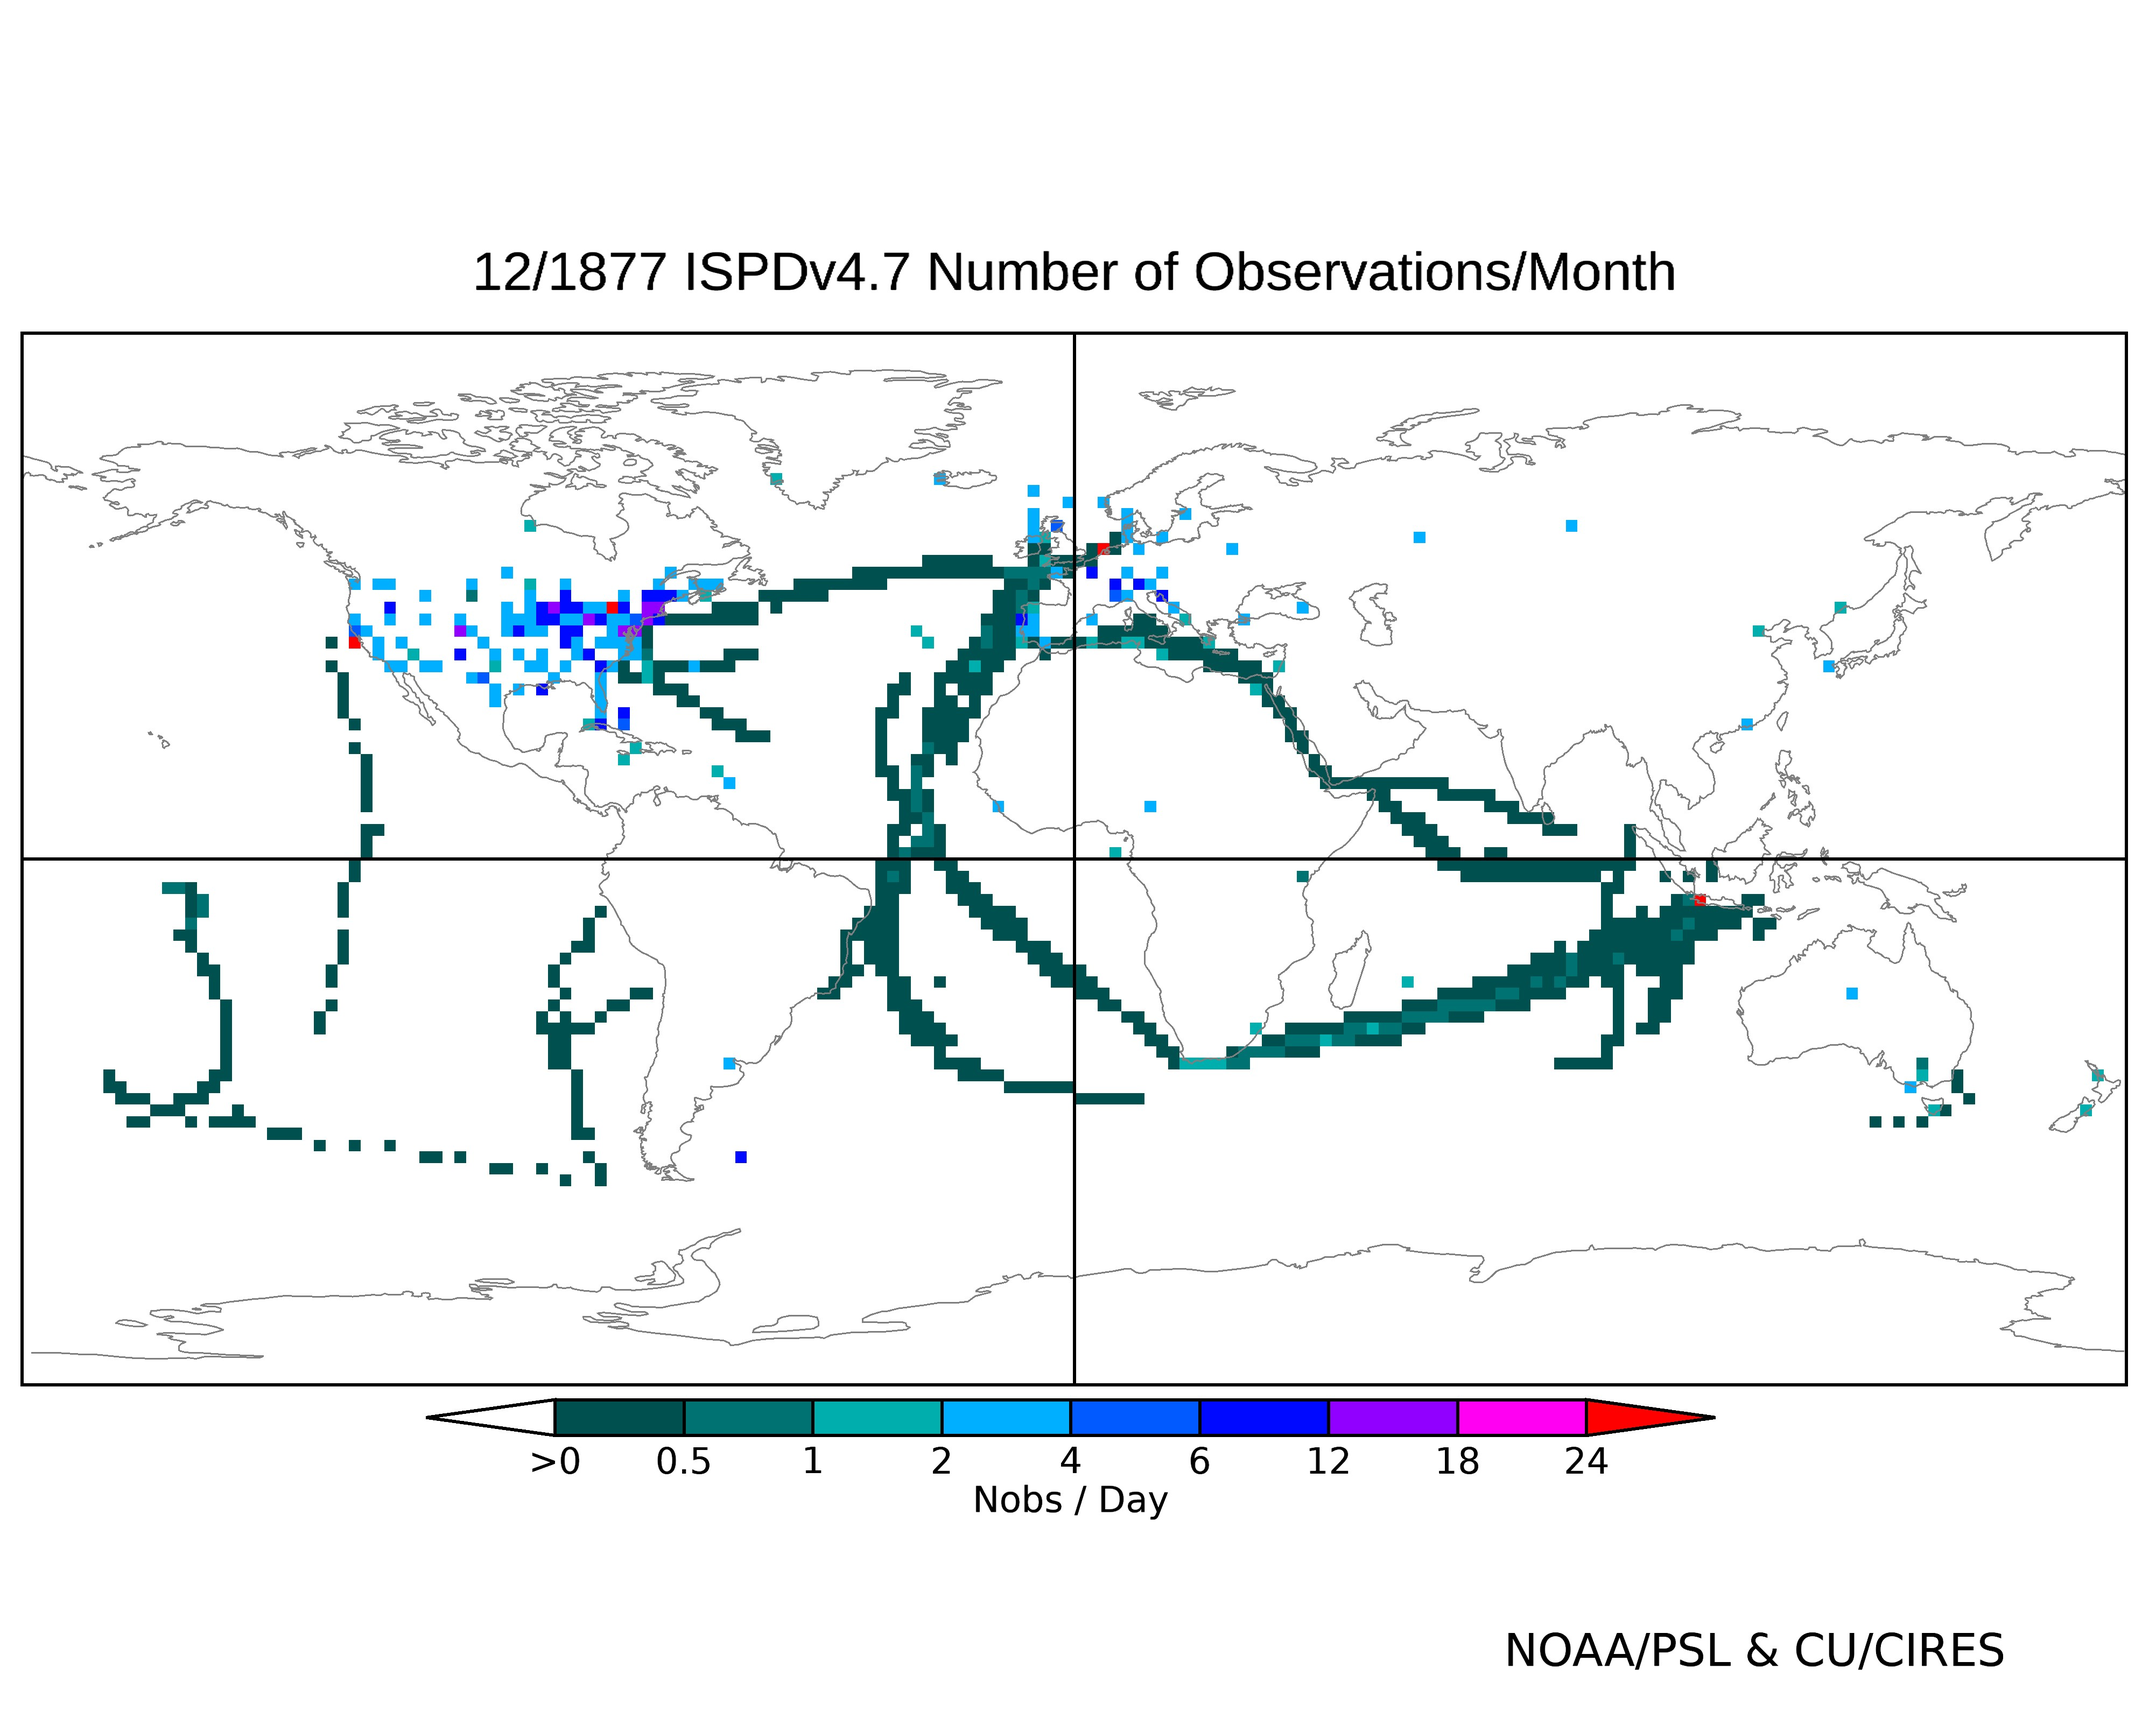
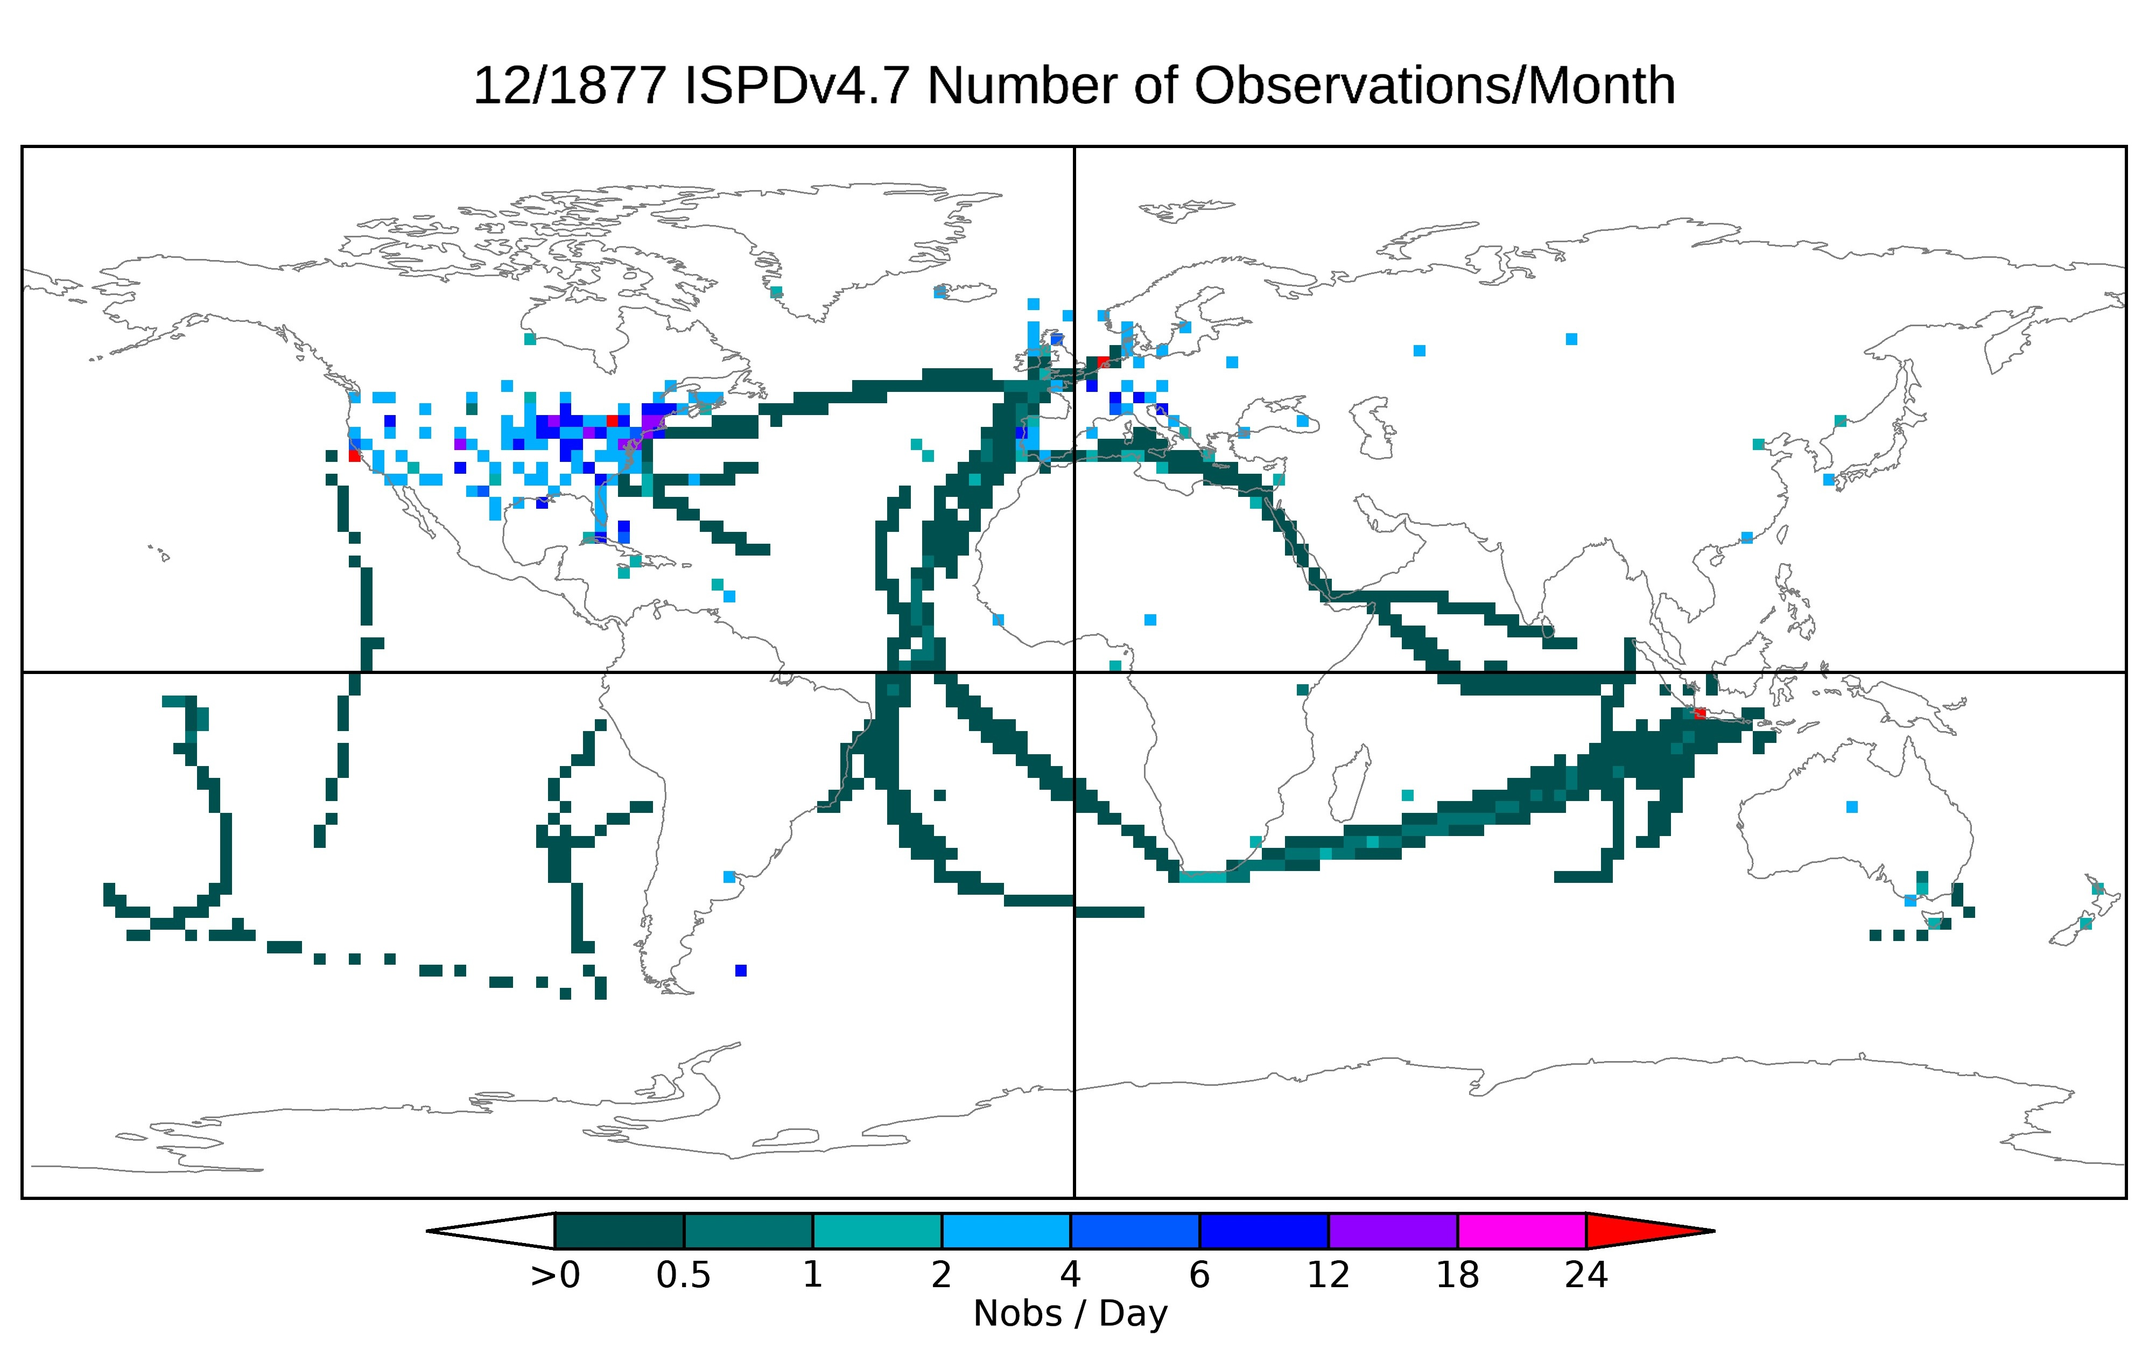
New sources

diff --git a/sources.md b/sources.md
@@ -10,3 +10,18 @@
 
 [Gibraltar](https://digital.nmla.metoffice.gov.uk/SO_17a195a1-ae65-43ce-bdbe-cd6a837ab311/)
 
+[Nassau](https://digital.nmla.metoffice.gov.uk/index.php?name=SO_268a2f14-9441-4293-8f85-9ccc6a5d6451)
+
+[Heligoland](https://digital.nmla.metoffice.gov.uk/SO_f6523356-0f5d-42c4-a0cf-422082de92af/)
+
+[Manitoba](https://digital.nmla.metoffice.gov.uk/SO_01930c16-e714-47dd-8496-521efca24709/)
+
+Jamaica: [Newcastle](https://digital.nmla.metoffice.gov.uk/SO_e7b67720-ab6d-436e-9fa9-e7ac265fe788/) and [UP Park](https://digital.nmla.metoffice.gov.uk/SO_34c0c628-c386-4f90-b5d9-d91616b18204/)
+
+[Malta](https://digital.nmla.metoffice.gov.uk/SO_3dcf533a-610e-47e1-95fa-8fd13354ea07/)
+
+[Turkey](https://digital.nmla.metoffice.gov.uk/SO_06affef2-688a-45b3-ab37-9d2c3f798819/)
+
+[Barbados](https://digital.nmla.metoffice.gov.uk/index.php?name=SO_888a011b-844c-442e-90e6-0673005e054c)
+
+
